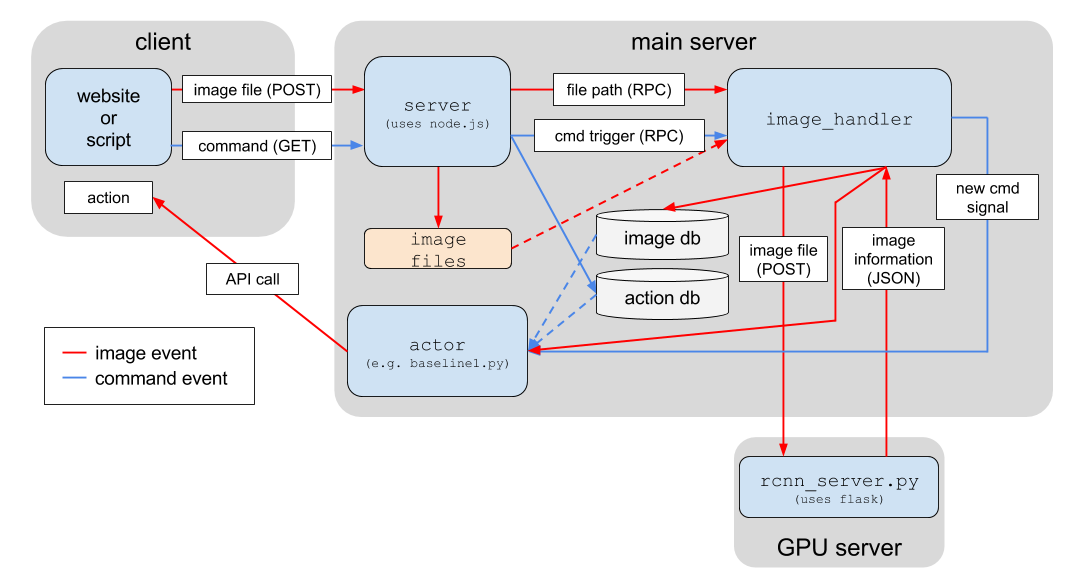
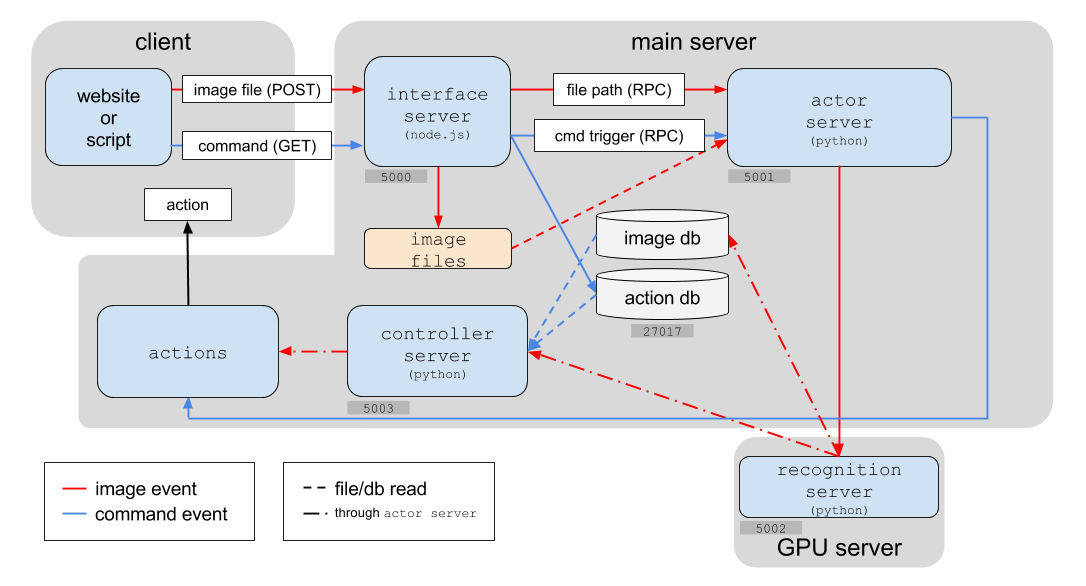
updated info

diff --git a/README.md b/README.md
@@ -4,17 +4,18 @@
 * ```npm install```
 
 ## complete launch
-* (in hai_server) ```node server.js```
-* (in image_handler) ```python imagereceiver.py```
-* (in nn_server) ```python detect_server.py```
-* (in client) ```python client.py http://server_address:5000/upload```
+* (in recognition_server) ```python detect_server.py```
+* (in controller_server) ```python control_server.py```
+* (in actor_server) ```python receiver.py```
+* (in interface_server) ```node server.js```
+* (in cam) ```python client.py```
 
 ## schematic
 ![](images/diagram.png)
 
 ## ports
-* 5000: website <-> server
-* 5001: server.js <-> imagereceiver.py
+* 5000: website <-> interface server
+* 5001: interface server <-> actor server
 * 5002: object detection server
-* 5003: imagereceiver.py <-> actionserver.py
+* 5003: action prediction server
 * 27017: mongodb
